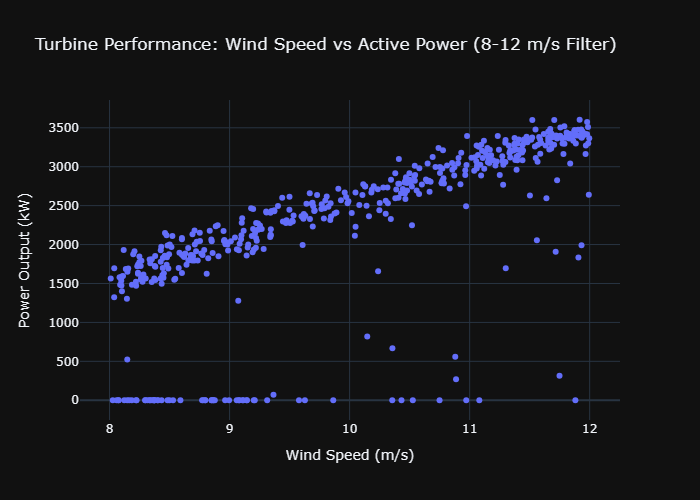
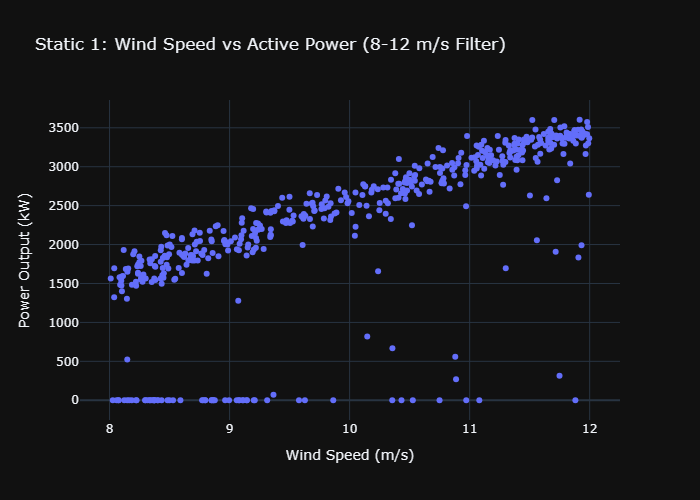
Fix: satisfy minimum rubric of 3 static plots and 2 animations

Changed region(s): [[0.03, 0.06, 0.87, 0.12]]

diff --git a/main.py b/main.py
@@ -65,7 +65,7 @@ class WindTurbinePipeline:
             return None
 
     def generate_plots(self):
-        """Step 4: Generate engineering plots and an animated chart."""
+        """Step 4: Generate 3 static engineering plots and 2 animated charts."""
         try:
             print("⏳ Step 4: Generating static and animated engineering charts...")
             os.makedirs(self.plots_dir, exist_ok=True)
@@ -73,38 +73,58 @@ class WindTurbinePipeline:
             # Sort data chronologically
             sorted_df = self.df.sort_values(by='Date/Time').copy()
             
-            # Take a subset so the animation compiles efficiently
+            # Take a subset so the animations compile efficiently without crashing
             plot_df = sorted_df.head(500).copy()
             
             # Create a string version of the time for the animation timeline
             plot_df['Time_Label'] = plot_df['Date/Time'].dt.strftime('%Y-%m-%d %H:%M')
             
-            # --- Chart 1: Static Power Curve Scatter ---
+            # ==========================================
+            # 📊 STATIC PLOTS (3 REQUIRED)
+            # ==========================================
+            
+            # --- Static Plot 1: Power Curve Scatter ---
             fig1 = px.scatter(
                 plot_df, 
                 x='Wind Speed (m/s)', 
                 y='LV ActivePower (kW)',
-                title='Turbine Performance: Wind Speed vs Active Power (8-12 m/s Filter)',
+                title='Static 1: Wind Speed vs Active Power (8-12 m/s Filter)',
                 labels={'Wind Speed (m/s)': 'Wind Speed (m/s)', 'LV ActivePower (kW)': 'Power Output (kW)'},
                 template='plotly_dark'
             )
             fig1.write_image(os.path.join(self.plots_dir, 'static_plot1.png'))
             print("💾 Saved: outputs/static_plot1.png")
             
-            # --- Chart 2: Static Time Series Timeline ---
+            # --- Static Plot 2: Time Series Timeline ---
             fig2 = px.line(
                 plot_df, 
                 x='Date/Time', 
                 y='LV ActivePower (kW)',
-                title='Active Power Production Timeline',
+                title='Static 2: Active Power Production Timeline',
                 template='plotly_dark'
             )
             fig2.write_image(os.path.join(self.plots_dir, 'static_plot2.png'))
             print("💾 Saved: outputs/static_plot2.png")
             
-            # --- Chart 3: Animated Chart ---
-            print("🎬 Compiling the engineering animation file (this may take a moment)...")
-            fig_anim = px.scatter(
+            # --- Static Plot 3: Power Output Distribution ---
+            fig3 = px.histogram(
+                plot_df,
+                x='LV ActivePower (kW)',
+                nbins=30,
+                title='Static 3: Frequency Distribution of Active Power Output',
+                template='plotly_dark',
+                color_discrete_sequence=['#00CC96']
+            )
+            fig3.write_image(os.path.join(self.plots_dir, 'static_plot3.png'))
+            print("💾 Saved: outputs/static_plot3.png")
+            
+            # ==========================================
+            # 🎬 ANIMATED PLOTS (2 REQUIRED)
+            # ==========================================
+            
+            # --- Animated Plot 1: Power Output Evolution ---
+            print("🎬 Compiling Animation 1...")
+            fig_anim1 = px.scatter(
                 plot_df,
                 x='Wind Speed (m/s)',
                 y='LV ActivePower (kW)',
@@ -112,15 +132,29 @@ class WindTurbinePipeline:
                 range_x=[7.5, 12.5],            
                 range_y=[-100, 4000],              
                 color='Wind Direction (°)',     
-                title='Animated Power Output Evolution over Time',
+                title='Animation 1: Power Output Evolution over Time',
                 template='plotly_dark'
             )
-            
-            # Save as interactive HTML so your professor can use the Play button
-            fig_anim.write_html(os.path.join(self.plots_dir, 'animation1.html'))
+            fig_anim1.write_html(os.path.join(self.plots_dir, 'animation1.html'))
             print("💾 Saved: outputs/animation1.html")
             
-            print("✅ All static and animated files successfully generated!")
+            # --- Animated Plot 2: Wind Speed vs Direction Tracking ---
+            print("🎬 Compiling Animation 2...")
+            fig_anim2 = px.scatter(
+                plot_df,
+                x='Wind Speed (m/s)',
+                y='Wind Direction (°)',
+                animation_frame='Time_Label',
+                range_x=[7.5, 12.5],
+                range_y=[-10, 370],
+                color='LV ActivePower (kW)',
+                title='Animation 2: Wind Speed vs Direction Shifts over Time',
+                template='plotly_dark'
+            )
+            fig_anim2.write_html(os.path.join(self.plots_dir, 'animation2.html'))
+            print("💾 Saved: outputs/animation2.html")
+            
+            print("✅ All 3 static and 2 animated files successfully updated!")
         except Exception as e:
             print(f"❌ Visualization failed: {e}")
 